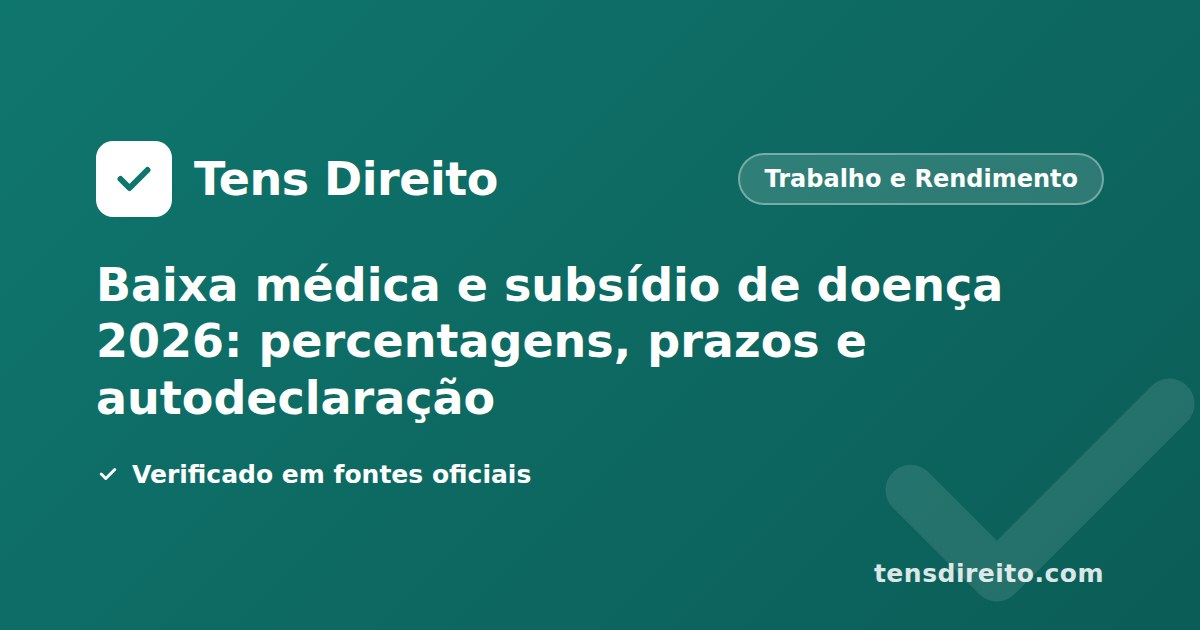
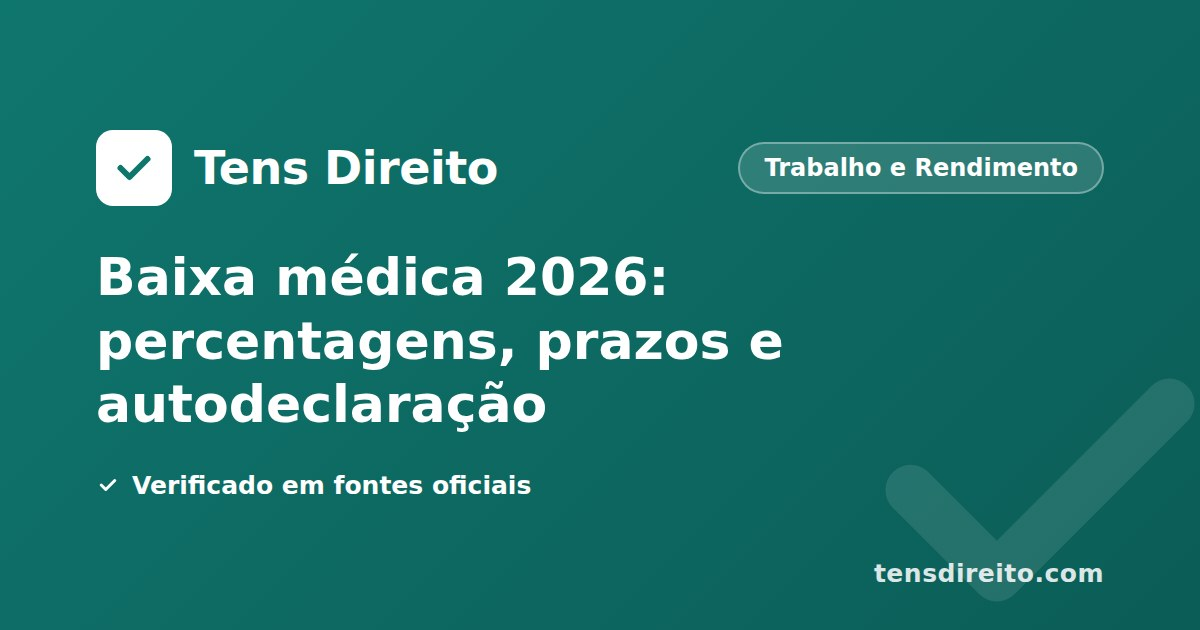
seo: reescreve title/description de 4 páginas com CTR baixo (#91)
Ajustes cirúrgicos, só <title>/<meta name="description"> (+ og:title/
headline JSON-LD nos 3 casos em que espelhavam o title antigo):

- porta-65.html: title sem sufixo "— Tens Direito" (83→54 chars)
- subsidio-desemprego.html: title sem o valor-teto em €, mantém foco
  em "valor, duração e como pedir" (61→56 chars)
- baixa-medica-subsidio-doenca.html: title e description encurtados
  (77→56 / 181→143 chars)
- manuais-escolares-mega.html: title e description encurtados
  (84→56 / 238→150 chars)

og:title/headline actualizados só onde mirroravam o title antigo
exactamente (subsidio-desemprego, baixa-medica, manuais-escolares-mega);
og:title de porta-65.html não mirrorava (segue o H1) — deixado intacto.
Imagens og/manifest regeneradas via gerar_og_images.py --write para os
3 títulos que mudaram.

calendario-pagamentos-seguranca-social.html fica fora deste PR — o
title/description vivem dentro dos marcadores CAL:META:INICIO/FIM,
escritos automaticamente pelo calendario-mensal.yml; alterar isso é
trabalho à parte no gerador (scripts/atualizar_calendario.py).

tests/test_valores_ancora.py: test_subsidio_desemprego_title_teto_2_5x_ias
substituído por test_subsidio_desemprego_title_sem_valor_ancora — o
title deixou de citar o teto de 2,5x IAS por desenho; a description
continua a ancorar o piso (100% IAS).

H1, corpo e todas as outras páginas intocados. Suite completa (3232
passed, 3 skipped, allow-list confirmada) + ruff limpos.

diff --git a/manuais-escolares-mega.html b/manuais-escolares-mega.html
@@ -13,9 +13,9 @@
   <meta name="viewport" content="width=device-width, initial-scale=1.0">
   <meta name="robots" content="index, follow">
   <link rel="sitemap" type="application/xml" href="/sitemap.xml">
-  <title>Manuais escolares gratuitos 2026/2027: como funciona o MEGA e como levantar os vales</title>
-  <meta name="description" content="Manuais escolares gratuitos para todos os alunos do 1.º ao 12.º ano do ensino público. Vales 2026/2027 emitidos entre 3 e 13 de agosto (consoante o ano). Como registar em manuaisescolares.pt e regras de devolução. Verificado a 13/07/2026.">
-  <meta property="og:title" content="Manuais escolares gratuitos 2026/2027: como funciona o MEGA e como levantar os vales">
+  <title>Manuais escolares MEGA 2026/2027: como levantar os vales</title>
+  <meta name="description" content="Manuais escolares gratuitos do 1.º ao 12.º ano. Vales MEGA 2026/2027: quando são emitidos, como registar em manuaisescolares.pt e regras de devolução.">
+  <meta property="og:title" content="Manuais escolares MEGA 2026/2027: como levantar os vales">
   <meta property="og:description" content="Manuais escolares gratuitos para todos os alunos do 1.º ao 12.º ano do ensino público. Vales 2026/2027 entre 3 e 13 de agosto, como registar em manuaisescolares.pt e regras de devolução.">
   <meta property="og:url" content="https://tensdireito.com/manuais-escolares-mega.html">
   <link rel="canonical" href="https://tensdireito.com/manuais-escolares-mega.html">
@@ -25,7 +25,7 @@
   <meta property="og:image" content="https://tensdireito.com/assets/img/og/manuais-escolares-mega.jpg">
   <meta property="og:image:width" content="1200">
   <meta property="og:image:height" content="630">
-  <meta property="og:image:alt" content="Manuais escolares gratuitos 2026/2027: como funciona o MEGA e como levantar os vales">
+  <meta property="og:image:alt" content="Manuais escolares MEGA 2026/2027: como levantar os vales">
   <meta name="twitter:card" content="summary_large_image">
   <style>
     * { box-sizing: border-box; margin: 0; padding: 0; }
@@ -219,7 +219,7 @@ footer a { color: #5C6770; }
   {
     "@context": "https://schema.org",
     "@type": "Article",
-    "headline": "Manuais escolares gratuitos 2026/2027: como funciona o MEGA e como levantar os vales",
+    "headline": "Manuais escolares MEGA 2026/2027: como levantar os vales",
     "mainEntityOfPage": "https://tensdireito.com/manuais-escolares-mega.html",
     "author": {"@id": "https://tensdireito.com/sobre.html#nvlabs"},
     "publisher": {"@id": "https://tensdireito.com/sobre.html#nvlabs"},

diff --git a/baixa-medica-subsidio-doenca.html b/baixa-medica-subsidio-doenca.html
@@ -13,9 +13,9 @@
   <meta name="viewport" content="width=device-width, initial-scale=1.0">
   <meta name="robots" content="index, follow">
   <link rel="sitemap" type="application/xml" href="/sitemap.xml">
-  <title>Baixa médica e subsídio de doença 2026: percentagens, prazos e autodeclaração</title>
-  <meta name="description" content="Baixa médica 2026: percentagens do subsídio (55% a 75%), dias de espera, autodeclaração de doença no SNS24, prazos do CIT, fiscalização e regras para independentes. Guia verificado.">
-  <meta property="og:title" content="Baixa médica e subsídio de doença 2026: percentagens, prazos e autodeclaração">
+  <title>Baixa médica 2026: percentagens, prazos e autodeclaração</title>
+  <meta name="description" content="Baixa médica 2026: percentagens do subsídio (55% a 75%), dias de espera, autodeclaração no SNS24 e prazos do CIT. Guia verificado e atualizado.">
+  <meta property="og:title" content="Baixa médica 2026: percentagens, prazos e autodeclaração">
   <meta property="og:description" content="Baixa médica 2026: percentagens do subsídio, dias de espera, autodeclaração de doença no SNS24, prazos do CIT e fiscalização. Informação verificada.">
   <meta property="og:url" content="https://tensdireito.com/baixa-medica-subsidio-doenca.html">
   <link rel="canonical" href="https://tensdireito.com/baixa-medica-subsidio-doenca.html">
@@ -25,7 +25,7 @@
   <meta property="og:image" content="https://tensdireito.com/assets/img/og/baixa-medica-subsidio-doenca.jpg">
   <meta property="og:image:width" content="1200">
   <meta property="og:image:height" content="630">
-  <meta property="og:image:alt" content="Baixa médica e subsídio de doença 2026: percentagens, prazos e autodeclaração">
+  <meta property="og:image:alt" content="Baixa médica 2026: percentagens, prazos e autodeclaração">
   <meta name="twitter:card" content="summary_large_image">
 
   <script type="application/ld+json">
@@ -190,7 +190,7 @@
   {
     "@context": "https://schema.org",
     "@type": "Article",
-    "headline": "Baixa médica e subsídio de doença 2026: percentagens, prazos e autodeclaração",
+    "headline": "Baixa médica 2026: percentagens, prazos e autodeclaração",
     "mainEntityOfPage": "https://tensdireito.com/baixa-medica-subsidio-doenca.html",
     "author": {"@id": "https://tensdireito.com/sobre.html#nvlabs"},
     "publisher": {"@id": "https://tensdireito.com/sobre.html#nvlabs"},

diff --git a/subsidio-desemprego.html b/subsidio-desemprego.html
@@ -13,9 +13,9 @@
   <meta name="viewport" content="width=device-width, initial-scale=1.0">
   <meta name="robots" content="index, follow">
   <link rel="sitemap" type="application/xml" href="/sitemap.xml">
-  <title>Subsídio de desemprego 2026: valor até 1.342,83€ e como pedir</title>
+  <title>Subsídio de desemprego 2026: valor, duração e como pedir</title>
   <meta name="description" content="Subsídio de desemprego 2026: descobre se tens direito, quanto vais receber (65% do salário, mín. 537,13€), quanto tempo dura e como pedir em 90 dias.">
-  <meta property="og:title" content="Subsídio de desemprego 2026: valor até 1.342,83€ e como pedir">
+  <meta property="og:title" content="Subsídio de desemprego 2026: valor, duração e como pedir">
   <meta property="og:description" content="Subsídio de desemprego 2026: descobre se tens direito, quanto vais receber (65% do salário, mín. 537,13€), quanto tempo dura e como pedir em 90 dias.">
   <meta property="og:url" content="https://tensdireito.com/subsidio-desemprego.html">
   <link rel="canonical" href="https://tensdireito.com/subsidio-desemprego.html">
@@ -25,7 +25,7 @@
   <meta property="og:image" content="https://tensdireito.com/assets/img/og/subsidio-desemprego.jpg">
   <meta property="og:image:width" content="1200">
   <meta property="og:image:height" content="630">
-  <meta property="og:image:alt" content="Subsídio de desemprego 2026: valor até 1.342,83€ e como pedir">
+  <meta property="og:image:alt" content="Subsídio de desemprego 2026: valor, duração e como pedir">
   <meta name="twitter:card" content="summary_large_image">
 
   <script type="application/ld+json">
@@ -186,7 +186,7 @@
   {
     "@context": "https://schema.org",
     "@type": "Article",
-    "headline": "Subsídio de desemprego 2026: valor até 1.342,83€ e como pedir",
+    "headline": "Subsídio de desemprego 2026: valor, duração e como pedir",
     "mainEntityOfPage": "https://tensdireito.com/subsidio-desemprego.html",
     "author": {"@id": "https://tensdireito.com/sobre.html#nvlabs"},
     "publisher": {"@id": "https://tensdireito.com/sobre.html#nvlabs"},

diff --git a/porta-65.html b/porta-65.html
@@ -13,7 +13,7 @@
   <meta name="viewport" content="width=device-width, initial-scale=1.0">
   <meta name="robots" content="index, follow">
   <link rel="sitemap" type="application/xml" href="/sitemap.xml">
-  <title>Porta 65 Jovem 2026: Candidaturas, Quem Tem Direito e Como Concorrer — Tens Direito</title>
+  <title>Porta 65 Jovem 2026: quem tem direito e como concorrer</title>
   <meta name="description" content="Porta 65 Jovem em 2026: candidaturas abertas todo o ano (sem prazo, avaliação mensal), quem tem direito, valores do apoio à renda e como concorrer online.">
   <meta property="og:title" content="Porta 65 Jovem e Porta 65+ 2026: quem tem direito e como pedir">
   <meta property="og:description" content="Apoio ao arrendamento para jovens até 35 anos (Porta 65 Jovem) ou qualquer idade com quebra de rendimentos (Porta 65+). Candidaturas contínuas, sem prazo em 2026.">

diff --git a/tests/test_valores_ancora.py b/tests/test_valores_ancora.py
@@ -188,14 +188,21 @@ def test_piso_300_325_nunca_reaparece_sem_confirmacao():
 # validade". Scan a todo o repositório (grep a <title>/<meta
 # name="description"> por padrões de €/%) — resultado no fim do ficheiro.
 
-def test_subsidio_desemprego_title_teto_2_5x_ias():
+def test_subsidio_desemprego_title_sem_valor_ancora():
+    # 2026-08-17 (revisão de CTR): o <title> deixou de citar o teto de
+    # 2,5x IAS ("valor até 1.342,83€" → "valor, duração e como pedir") —
+    # este teste substitui test_subsidio_desemprego_title_teto_2_5x_ias
+    # (removido) e tranca a ausência, não uma fórmula: qualquer valor
+    # legal em € que volte a aparecer no <title> tem de ganhar cobertura
+    # própria neste ficheiro, nunca ficar solto. O piso (100% IAS)
+    # continua ancorado na meta description pelo teste seguinte.
     titulo = _title("subsidio-desemprego.html")
-    assert _valores_eur(titulo) == [round(IAS_2026 * 2.5, 2)], titulo
+    assert _valores_eur(titulo) == [], titulo
 
 
 def test_subsidio_desemprego_meta_description_piso_ias():
-    # A description passou a citar só o piso (2026-07-06, revisão de CTR) —
-    # o teto de 2,5x IAS continua ancorado no <title> pelo teste acima.
+    # A description cita o piso (2026-07-06, revisão de CTR); o teto de
+    # 2,5x IAS já não é citado em title nem description (2026-08-17).
     desc = _meta_description("subsidio-desemprego.html")
     assert _valores_eur(desc) == [IAS_2026], desc
 
